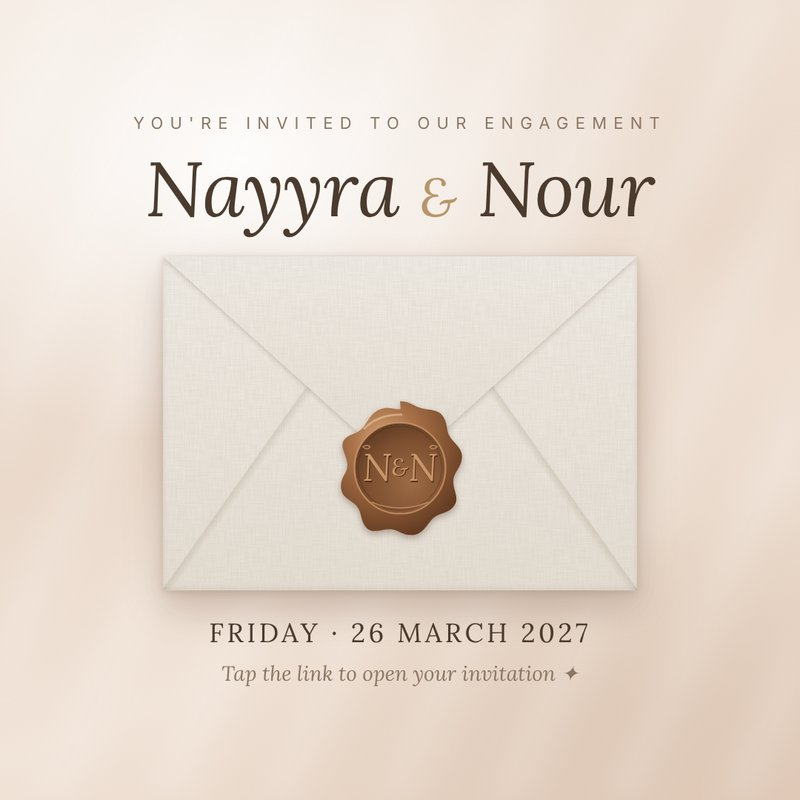
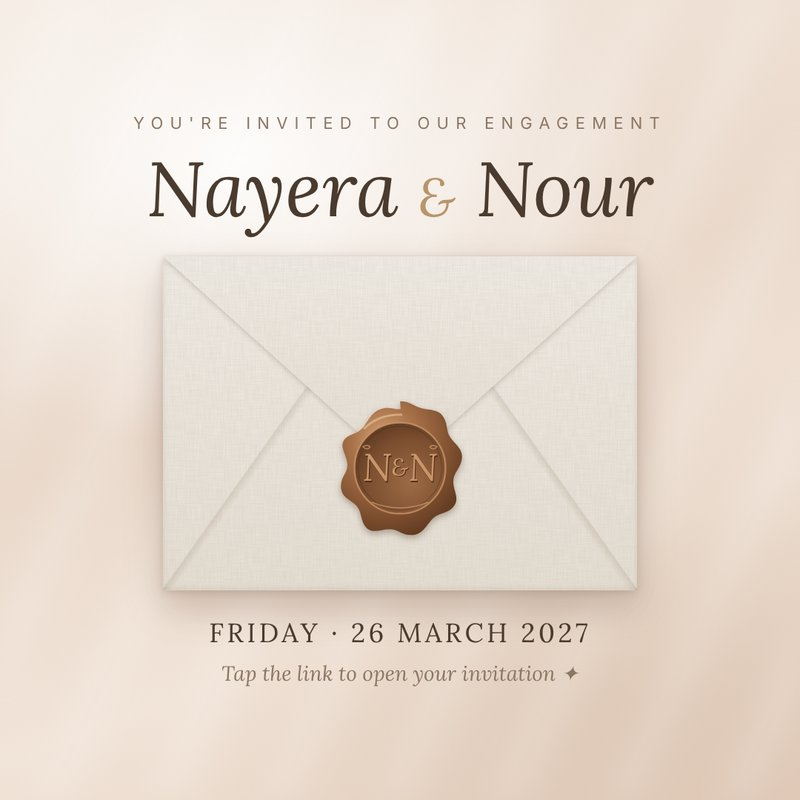
Change name to Nayera
Claude-Session: https://claude.ai/code/session_019c5Babt97nTN9K31y3piva

Changed region(s): [[0.1875, 0.1875, 0.5, 0.3125], [0.5938, 0.1875, 0.8125, 0.2812], [0.5312, 0.2188, 0.5625, 0.2812]]

diff --git a/index.html b/index.html
@@ -3,9 +3,9 @@
 <head>
 <meta charset="utf-8">
 <meta name="viewport" content="width=device-width, initial-scale=1, viewport-fit=cover">
-<title>Nayyra &amp; Nour — Engagement Invitation</title>
+<title>Nayera &amp; Nour — Engagement Invitation</title>
 <meta name="description" content="You're invited to celebrate our engagement — Friday, 26 March 2027 · Al Yasmine Greenland Compound">
-<meta property="og:title" content="Nayyra &amp; Nour — Engagement Invitation">
+<meta property="og:title" content="Nayera &amp; Nour — Engagement Invitation">
 <meta property="og:description" content="Friday, 26 March 2027 · Tap to open your invitation">
 <meta property="og:type" content="website">
 <meta property="og:image" content="https://nayyra-nour.github.io/preview.jpg">
@@ -175,7 +175,7 @@ footer p{font-family:var(--serif); font-style:italic; color:var(--ink-soft); mar
     <div class="env-back paper"></div>
     <div class="letter">
       <div class="l-sub">You're invited</div>
-      <div class="l-names"><span class="nm1">Nayyra</span> &amp; <span class="nm2">Nour</span></div>
+      <div class="l-names"><span class="nm1">Nayera</span> &amp; <span class="nm2">Nour</span></div>
     </div>
     <div class="env-front paper"></div>
     <div class="flap-wrap"><div class="flap paper"></div></div>
@@ -280,7 +280,7 @@ footer p{font-family:var(--serif); font-style:italic; color:var(--ink-soft); mar
     </svg>
     <div class="veil"></div>
     <div class="hero-text">
-      <h1 class="names"><span id="n1">Nayyra</span><span class="amp">&amp;</span><span id="n2">Nour</span></h1>
+      <h1 class="names"><span id="n1">Nayera</span><span class="amp">&amp;</span><span id="n2">Nour</span></h1>
       <div class="hero-date" id="heroDate">—</div>
       <a class="btn-ghost" href="#countdown">Save the date</a>
     </div>
@@ -368,7 +368,7 @@ footer p{font-family:var(--serif); font-style:italic; color:var(--ink-soft); mar
 <script>
 /* ===================== EDIT HERE ===================== */
 const CONFIG = {
-  name1: "Nayyra",
+  name1: "Nayera",
   name2: "Nour",
   message: "With joyful hearts, we invite you to celebrate our engagement and the beginning of our forever.",
   start: "2027-03-26T19:00",      // local date & time (Cairo)
